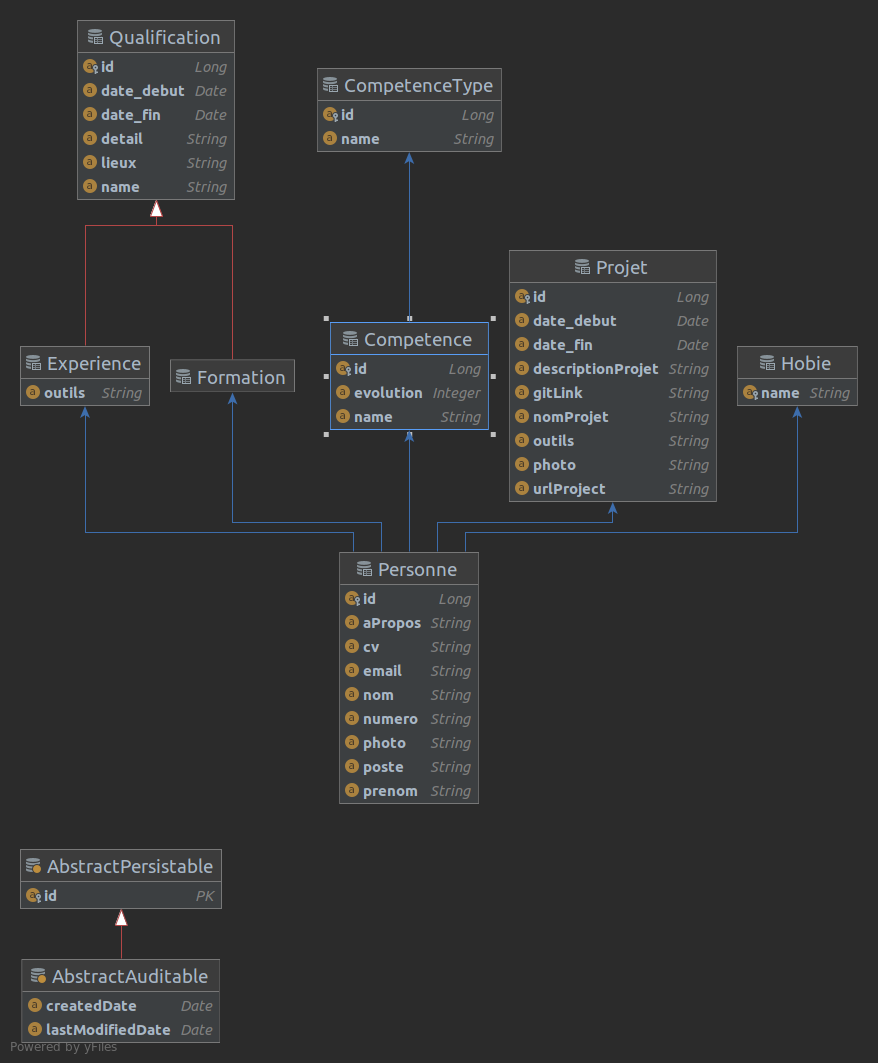
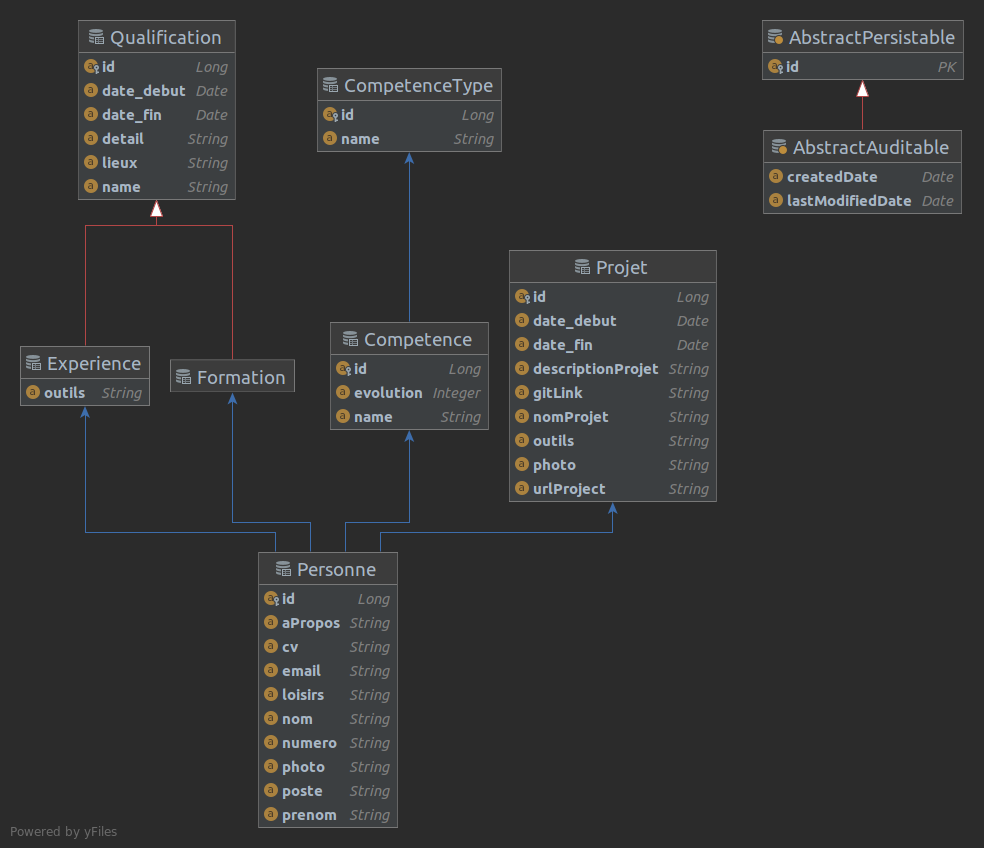
Debut de l'implémentation des requettes.

diff --git a/src/main/java/com/artkoto/portfoli/backend/model/Personne.java b/src/main/java/com/artkoto/portfoli/backend/model/Personne.java
@@ -31,7 +31,7 @@ public class Personne {
     private String cv;
 
     @Column(name = "about" ,length = (300))
-    private String aPropos;
+    private String apropos;
 
     @Column(name = "phone_number" ,length = (15))
     private String numero;
@@ -39,35 +39,32 @@ public class Personne {
     @Column(name = "add_email" ,length = (50))
     private String email;
 
-    @ManyToMany( cascade = {CascadeType.ALL})
-    @JoinTable(name="personnes_hobies",
-            joinColumns= @JoinColumn(name="personne_id", referencedColumnName="id"),
-            inverseJoinColumns= @JoinColumn(name="hobie_id", referencedColumnName="name"))
-    Set<Hobie> loisirs ;
+    @Column(name = "hobies" , length = 100)
+    private String loisirs ;
 
     @ManyToMany( cascade = {CascadeType.ALL})
     @JoinTable(name="personnes_formations",
             joinColumns= @JoinColumn(name="personne_id", referencedColumnName="id"),
             inverseJoinColumns= @JoinColumn(name="formation_id", referencedColumnName="id"))
-    Set<Formation> formations;
+    private Set<Formation> formations;
 
     @ManyToMany( cascade = {CascadeType.ALL})
     @JoinTable(name="personnes_experiences",
             joinColumns= @JoinColumn(name="personne_id", referencedColumnName="id"),
             inverseJoinColumns= @JoinColumn(name="experience_id", referencedColumnName="id"))
-    Set<Experience>experiences;
+    private Set<Experience>experiences;
 
     @ManyToMany (cascade = {CascadeType.ALL})
     @JoinTable(name="personnes_competences",
             joinColumns= @JoinColumn(name="personne_id", referencedColumnName="id"),
             inverseJoinColumns= @JoinColumn(name="competence_id", referencedColumnName="id"))
-    Set<Competence>competences;
+    private Set<Competence>competences;
 
     @ManyToMany (cascade = {CascadeType.ALL})
     @JoinTable(name="personnes_projets",
             joinColumns= @JoinColumn(name="personne_id", referencedColumnName="id"),
             inverseJoinColumns= @JoinColumn(name="projet_id", referencedColumnName="id"))
-    Set<Projet>projets;
+   private Set<Projet>projets;
 
 
 }

diff --git a/src/main/java/com/artkoto/portfoli/backend/controller/PersonneController.java b/src/main/java/com/artkoto/portfoli/backend/controller/PersonneController.java
@@ -3,8 +3,9 @@ package com.artkoto.portfoli.backend.controller;
 import com.artkoto.portfoli.backend.model.Personne;
 import com.artkoto.portfoli.backend.service.PersonneService;
 import org.springframework.beans.factory.annotation.Autowired;
-import org.springframework.web.bind.annotation.GetMapping;
-import org.springframework.web.bind.annotation.RestController;
+import org.springframework.web.bind.annotation.*;
+
+import java.util.Optional;
 
 @RestController
 public class PersonneController {
@@ -12,14 +13,46 @@ public class PersonneController {
     private PersonneService personneService;
 
     /**
-     * Read - Get all personnes
-     * @return - An Iterable object of personnes full filled
+     * @return - Toutes les personnes
      */
     @GetMapping("/personnes")
     public Iterable<Personne> getPersonnes() {
         return personneService.getPersonnes();
+    }
 
+    /**
+     * @param id
+    * @return - la personne avec l'id id
+     */
+    @GetMapping("/personnes/{id}")
+    public Optional<Personne> getPersonne(@PathVariable("id") final Long id){
+        return personneService.getPersonne(id);
+    }
+
+    /**
+     * ajout d'une nouvelle personne
+     * @param personne
+     * @return la personne cree
+     */
+    @PostMapping("personnes/add")
+    public Personne savePersonne(Personne personne){
+        return personneService.savePersonne(personne);
+    }
+
+    @PutMapping("personnes/{id}/update")
+    public Personne updatePersonne(Personne personne){
+        return personneService.savePersonne(personne);
+    }
+
+    /**
+     *
+     * @param id
+     * suppression d'une personne avec l'id
+     */
+    @DeleteMapping("/personnes/{id}")
+    public void deletePersonne(@PathVariable("id") final Long id){
+        personneService.deletePersonne(id);
+    }
         //TODO ajot des autres requettes
     }
-}
 

diff --git a/src/test/java/com/artkoto/portfoli/backend/PortfolioBackendApplicationTests.java b/src/test/java/com/artkoto/portfoli/backend/PortfolioBackendApplicationTests.java
@@ -41,16 +41,11 @@ class PersonneControllerTests {
 		personne1.setPoste("le poste");
 		personne1.setPhoto("url de laPhoto");
 		personne1.setCv("url du cv");
-		personne1.setAPropos("a propos de vous");
+		personne1.setApropos("a propos de vous");
 		personne1.setNumero("+33076797...");
 		personne1.setEmail("votre@email.com");
 
-		personne1.setLoisirs(new HashSet<>(){{
-			add(new Hobie() {{ setName("vos Hobies");}});
-			add(new Hobie() {{ setName("Game");}});
-			add(new Hobie() {{ setName("Natation ...");}});
-
-		}});
+		personne1.setLoisirs("vos loisirs");
 
 		personne1.setFormations(new HashSet<>(){{
 			//1

diff --git a/src/main/java/com/artkoto/portfoli/backend/service/PersonneService.java b/src/main/java/com/artkoto/portfoli/backend/service/PersonneService.java
@@ -31,4 +31,10 @@ public class PersonneService {
         Personne personneSauve = personneRepository.save(personne);
         return personneSauve;
     }
+//    public Personne modifyPersonne(final Long id){
+//        Personne personne1 = personneRepository.getOne(id);
+//        return  personneRepository.save()
+//    }
+
+    //TODO ajouter les autres services dont j'ai besoin
 }

diff --git a/README.md b/README.md
@@ -4,112 +4,102 @@ Prise en main de  Spring Framework.
 ### Model pour mon CV 
 ![](images/entityManagerFactory.png) 
 
-## la forme de notre JSON
+## La forme de notre JSON
 ```json
 [
-    {
+  {
+    "id": 1,
+    "nom": "votre Nom",
+    "prenom": "votre Prenom",
+    "poste": "le poste",
+    "photo": "url de laPhoto",
+    "cv": "url du cv",
+    "numero": "+33076797...",
+    "email": "votre@email.com",
+    "loisirs": "vos loisirs",
+    "formations": [
+      {
+        "id": 3,
+        "date_debut": "2021-05-24",
+        "date_fin": "2021-05-24",
+        "name": "vos formations",
+        "lieux": "lieux de la formation",
+        "detail": "description de la formation"
+      },
+      {
+        "id": 4,
+        "date_debut": "2021-05-24",
+        "date_fin": "2021-05-24",
+        "name": "M2 INFO",
+        "lieux": "istic",
+        "detail": "Je suis une formation à l'istic en IL ...."
+      }
+    ],
+    "experiences": [
+      {
+        "id": 2,
+        "date_debut": "1996-08-26",
+        "date_fin": "2021-05-24",
+        "name": "vos expé pro",
+        "lieux": "liex de expé",
+        "detail": "description expé",
+        "outils": "outils utilisés"
+      },
+      {
         "id": 1,
-        "nom": "votre Nom",
-        "prenom": "votre Prenom",
-        "poste": "le poste",
-        "photo": "url de laPhoto",
-        "cv": "url du cv",
-        "numero": "+33076797...",
-        "email": "votre@email.com",
-        "loisirs": [
-            {
-                "name": "vos Hobies"
-            },
-            {
-                "name": "Natation ..."
-            },
-            {
-                "name": "Game"
-            }
-        ],
-        "formations": [
-            {
-                "id": 3,
-                "date_debut": "2021-05-23",
-                "date_fin": "2021-05-23",
-                "name": "M2 INFO",
-                "lieux": "istic",
-                "detail": "Je suis une formation à l'istic en IL ...."
-            },
-            {
-                "id": 4,
-                "date_debut": "2021-05-23",
-                "date_fin": "2021-05-23",
-                "name": "vos formations",
-                "lieux": "lieux de la formation",
-                "detail": "description de la formation"
-            }
-        ],
-        "experiences": [
-            {
-                "id": 2,
-                "date_debut": "2021-05-23",
-                "date_fin": "2021-05-23",
-                "name": "Equipier à BK",
-                "lieux": "BK St Grerégoire",
-                "detail": "bla bla bla bla bla bla",
-                "outils": null
-            },
-            {
-                "id": 1,
-                "date_debut": "1996-08-26",
-                "date_fin": "2021-05-23",
-                "name": "vos expé pro",
-                "lieux": "liex de expé",
-                "detail": "description expé",
-                "outils": "outils utilisés"
-            }
-        ],
-        "competences": [
-            {
-                "id": 1,
-                "name": "Français",
-                "evolution": 95,
-                "competenceType": {
-                    "id": 1,
-                    "name": "Langue"
-                }
-            },
-            {
-                "id": 2,
-                "name": "Spring",
-                "evolution": 50,
-                "competenceType": {
-                    "id": 2,
-                    "name": "Dev"
-                }
-            }
-        ],
-        "projets": [
-            {
-                "id": 2,
-                "nomProjet": "Spring_project",
-                "descriptionProjet": "Creation de cette API avec Spring",
-                "urlProject": null,
-                "gitLink": "https://github.com/Artkoto/PortfolioDynamique_Backend_Spring",
-                "outils": "IntelliJ",
-                "photo": "https://avatars.githubusercontent.com/u/35773837?v=4",
-                "date_debut": null,
-                "date_fin": null
-            },
-            {
-                "id": 1,
-                "nomProjet": "nom projet",
-                "descriptionProjet": "description projet",
-                "urlProject": "url du projet",
-                "gitLink": "depot git du projet",
-                "outils": "outils utilisés pour le projet",
-                "photo": "image du projet",
-                "date_debut": null,
-                "date_fin": null
-            }
-        ],
-        "apropos": "a propos de vous"
-    }
+        "date_debut": "2021-05-24",
+        "date_fin": "2021-05-24",
+        "name": "Equipier à BK",
+        "lieux": "BK St Grerégoire",
+        "detail": "bla bla bla bla bla bla",
+        "outils": null
+      }
+    ],
+    "competences": [
+      {
+        "id": 1,
+        "name": "Français",
+        "evolution": 95,
+        "competenceType": {
+          "id": 1,
+          "name": "Langue"
+        }
+      },
+      {
+        "id": 2,
+        "name": "Spring",
+        "evolution": 50,
+        "competenceType": {
+          "id": 2,
+          "name": "Dev"
+        }
+      }
+    ],
+    "projets": [
+      {
+        "id": 2,
+        "nomProjet": "Spring_project",
+        "descriptionProjet": "Creation de cette API avec Spring",
+        "urlProject": null,
+        "gitLink": "https://github.com/Artkoto/PortfolioDynamique_Backend_Spring",
+        "outils": "IntelliJ",
+        "photo": "https://avatars.githubusercontent.com/u/35773837?v=4",
+        "date_debut": null,
+        "date_fin": null
+      },
+      {
+        "id": 1,
+        "nomProjet": "nom projet",
+        "descriptionProjet": "description projet",
+        "urlProject": "url du projet",
+        "gitLink": "depot git du projet",
+        "outils": "outils utilisés pour le projet",
+        "photo": "image du projet",
+        "date_debut": null,
+        "date_fin": null
+      }
+    ],
+    "apropos": "a propos de vous"
+  }
 ]
 ```
